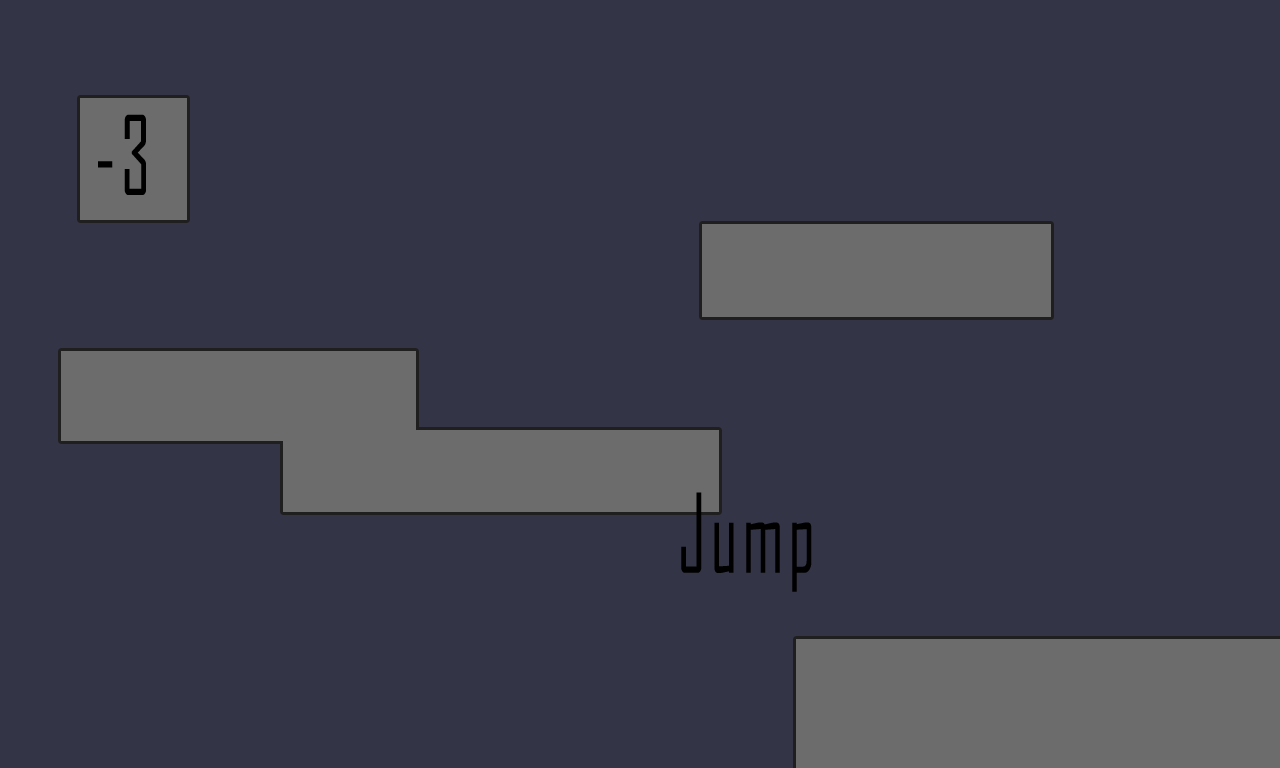
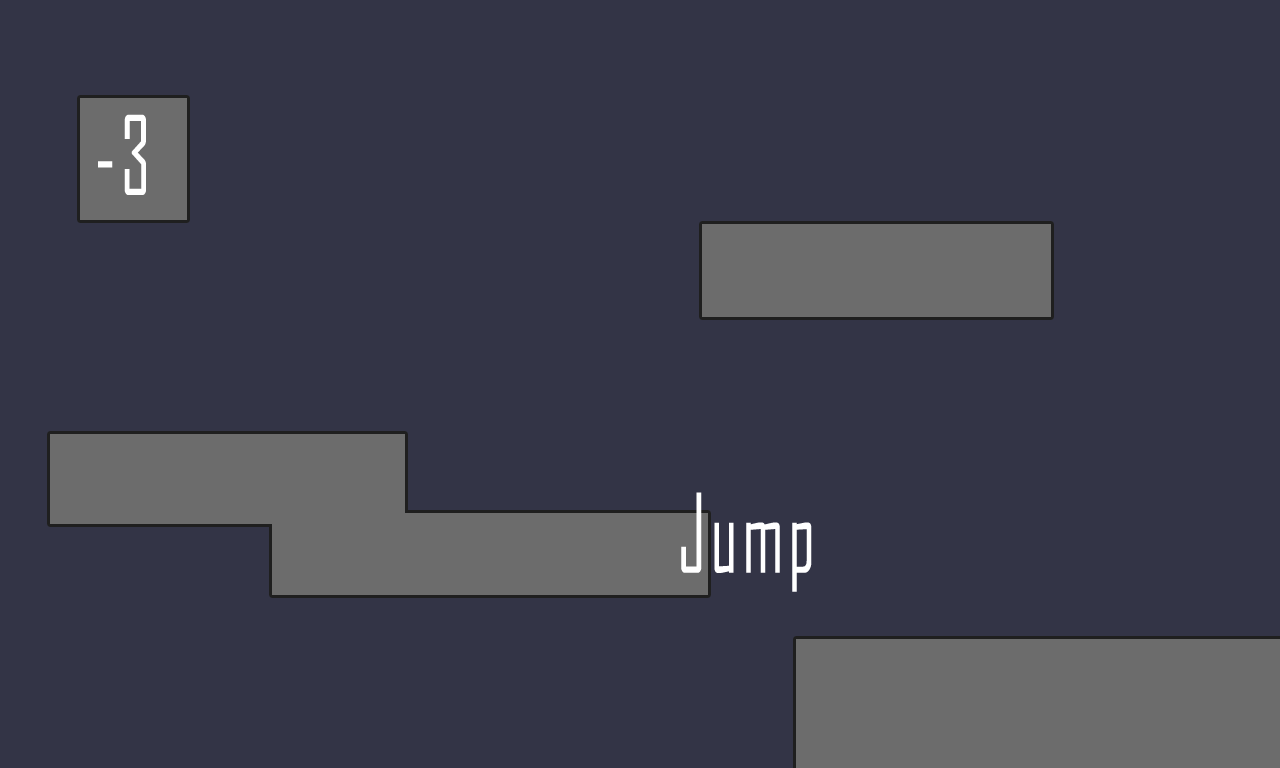
bgs. jump and holding bugs squashed

Changed region(s): [[0.0312, 0.4375, 0.6562, 0.7812], [0.0625, 0.125, 0.125, 0.25]]

diff --git a/Player.cs b/Player.cs
@@ -401,13 +401,14 @@ namespace Platformer
                     if (normal.Length() > collisionDist.Length())
                         collisionDist = normal;
                     //Avoid being grounded on wall
-                    if (collisionDist.X == 0 || isOnTop(rect, collisionRects))
+                    if ((collisionDist.X == 0 || isOnTop(rect, collisionRects)))
                     {
-                        grounded = true;
-                        inAir = false;
-                        y_vel = 0;
                         //Fixing animation in case of wall collision
-                        if (inverted)
+                        if (inverted && collisionDist.Y > 0)
+                        {
+                            grounded = true;
+                            inAir = false;
+                            y_vel = 0;
                             if (x_vel < .5 && x_vel > -.5)
                             {
                                 if (stand && !p2.getHold())
@@ -442,8 +443,12 @@ namespace Platformer
                                     LoadContent("Bennywalk2");
                                 }
                             }
-                        else
+                        }
+                        else if (!inverted && collisionDist.Y < 0)
                         {
+                            grounded = true;
+                            inAir = false;
+                            y_vel = 0;
                             if (x_vel < .5 && x_vel > -.5)
                             {
                                 if (stand && !p2.getHold())

diff --git a/GameLoop.cs b/GameLoop.cs
@@ -97,7 +97,7 @@ namespace Platformer
                 player2.setP2(player1);
 
                 end = new Endline(1216, 32, 32, 256);
-                background = Game.Content.Load<Texture2D>("level0bg");
+                background = Game.Content.Load<Texture2D>("level-1bg");
 
                 map = new Platformer.Level();
                 tileSheet = Game.Content.Load<Texture2D>("FloorPanelTiles");
